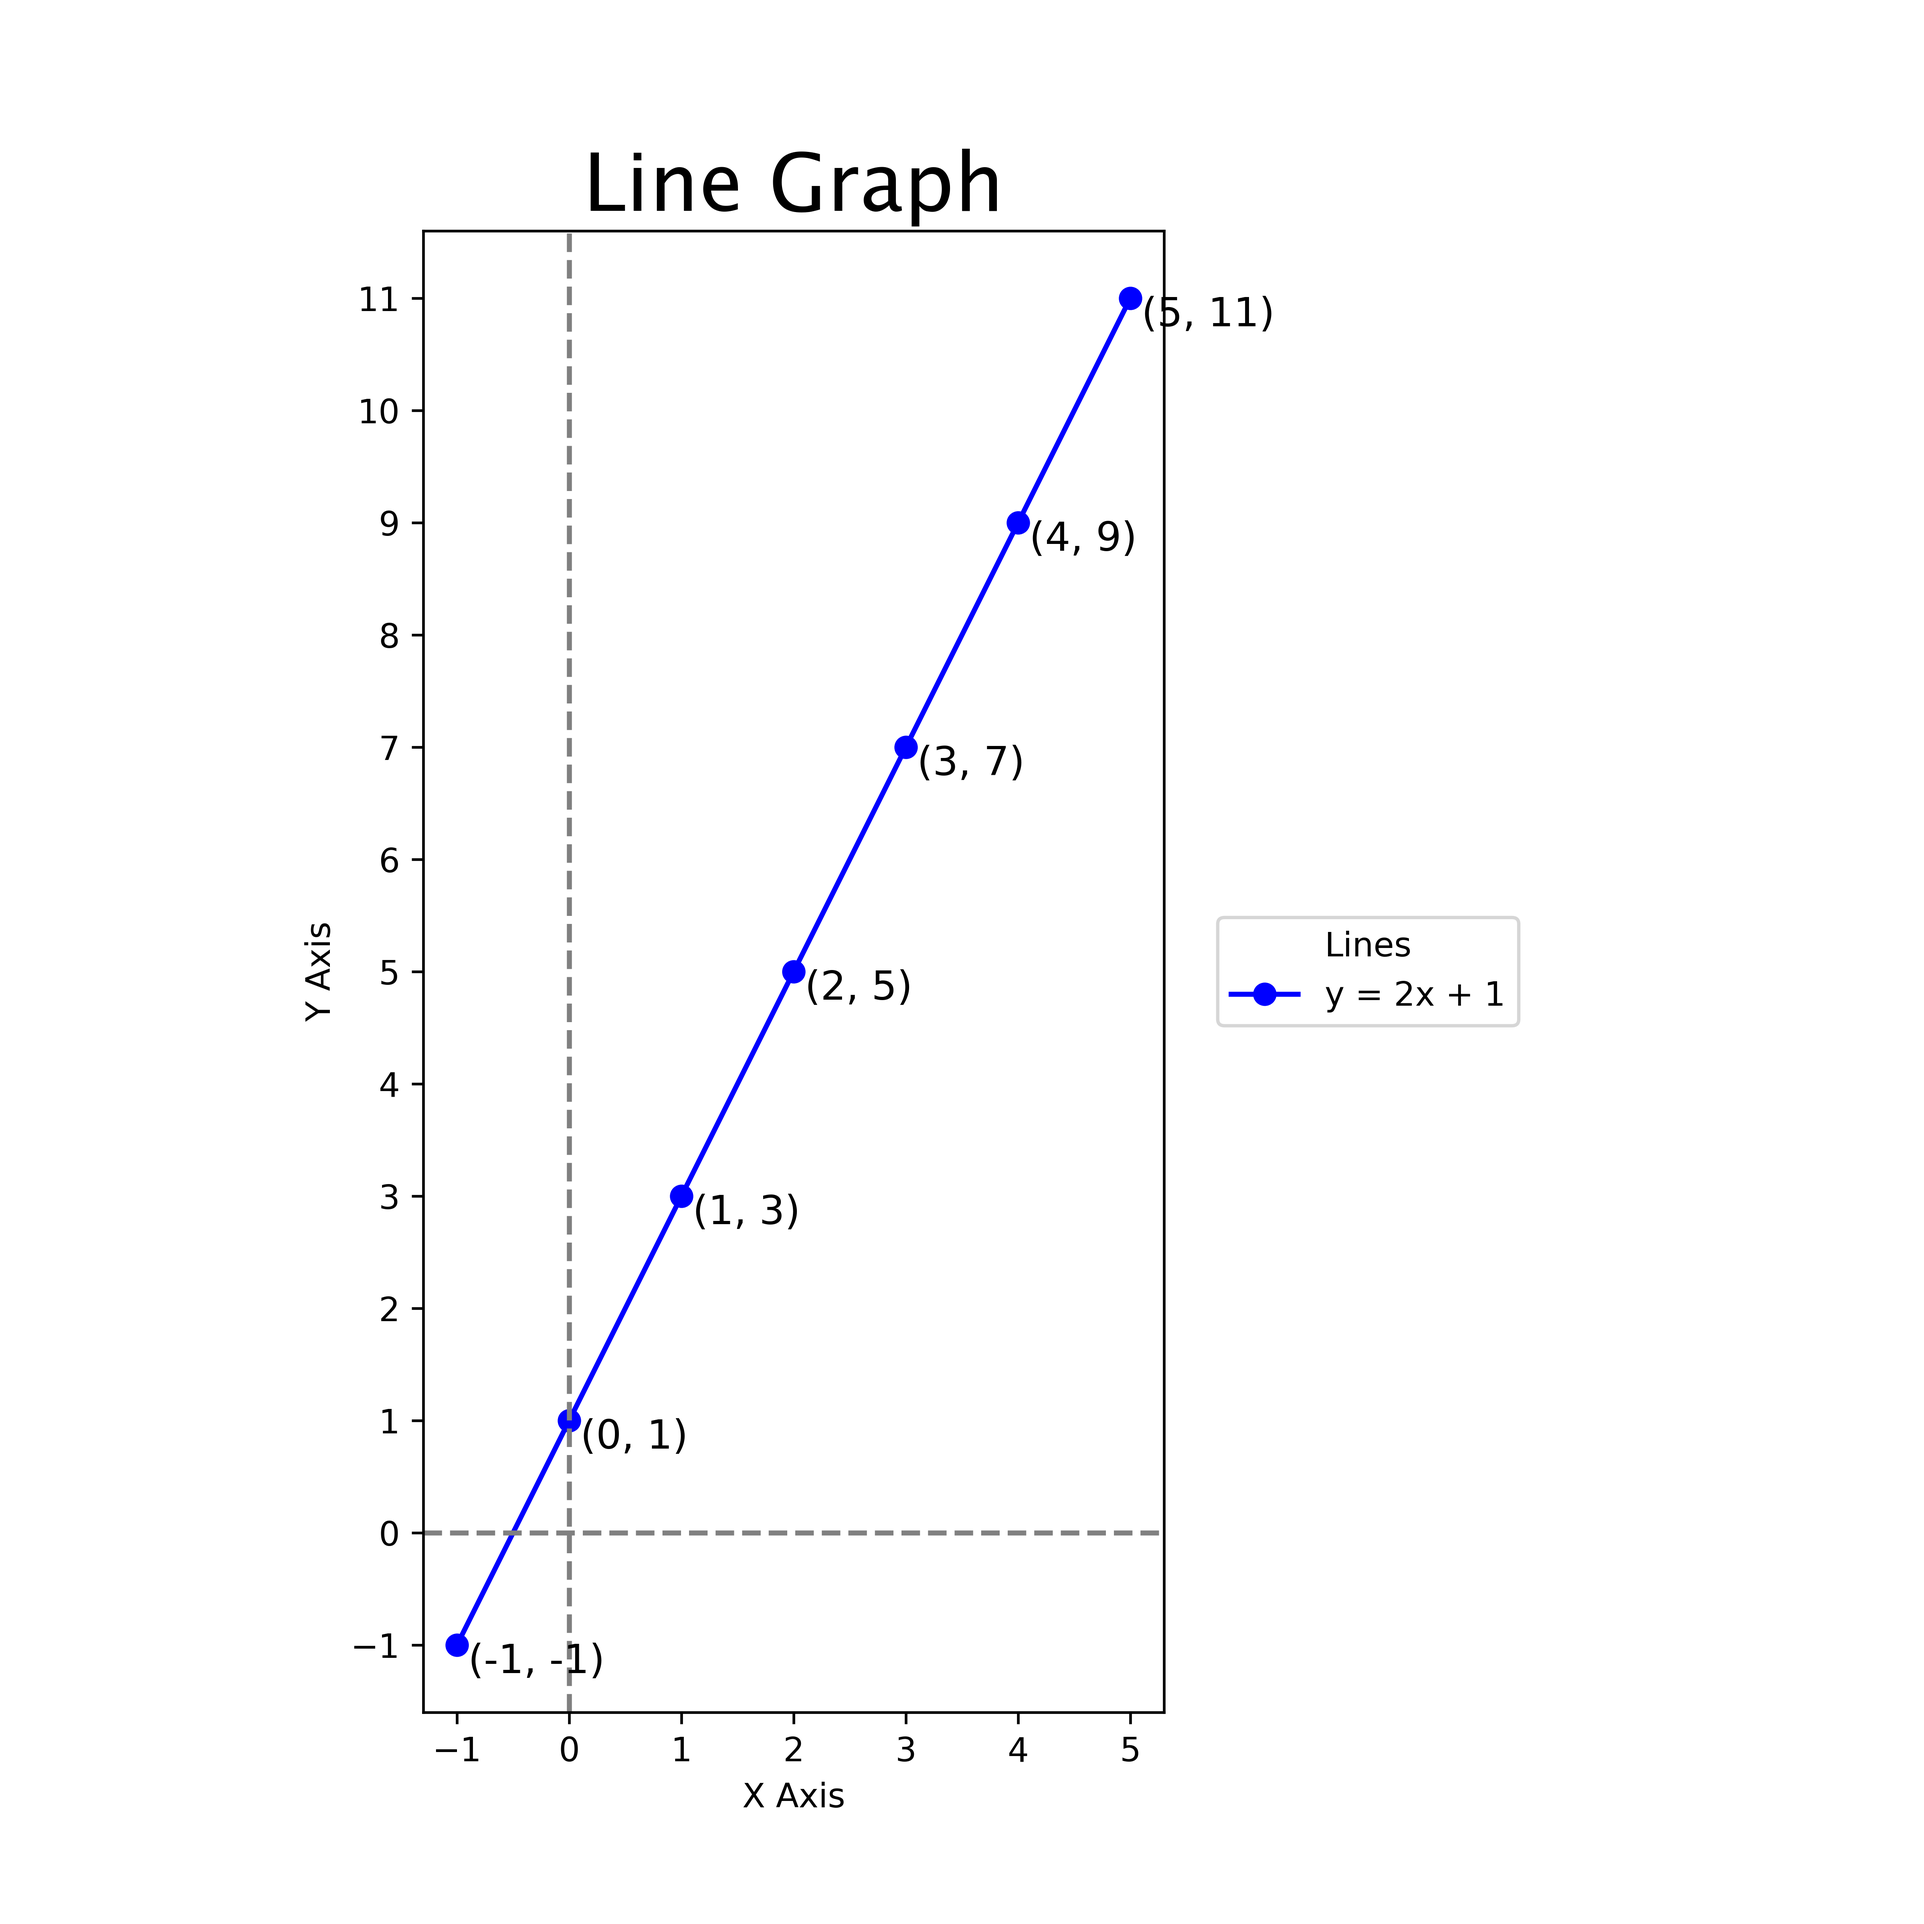
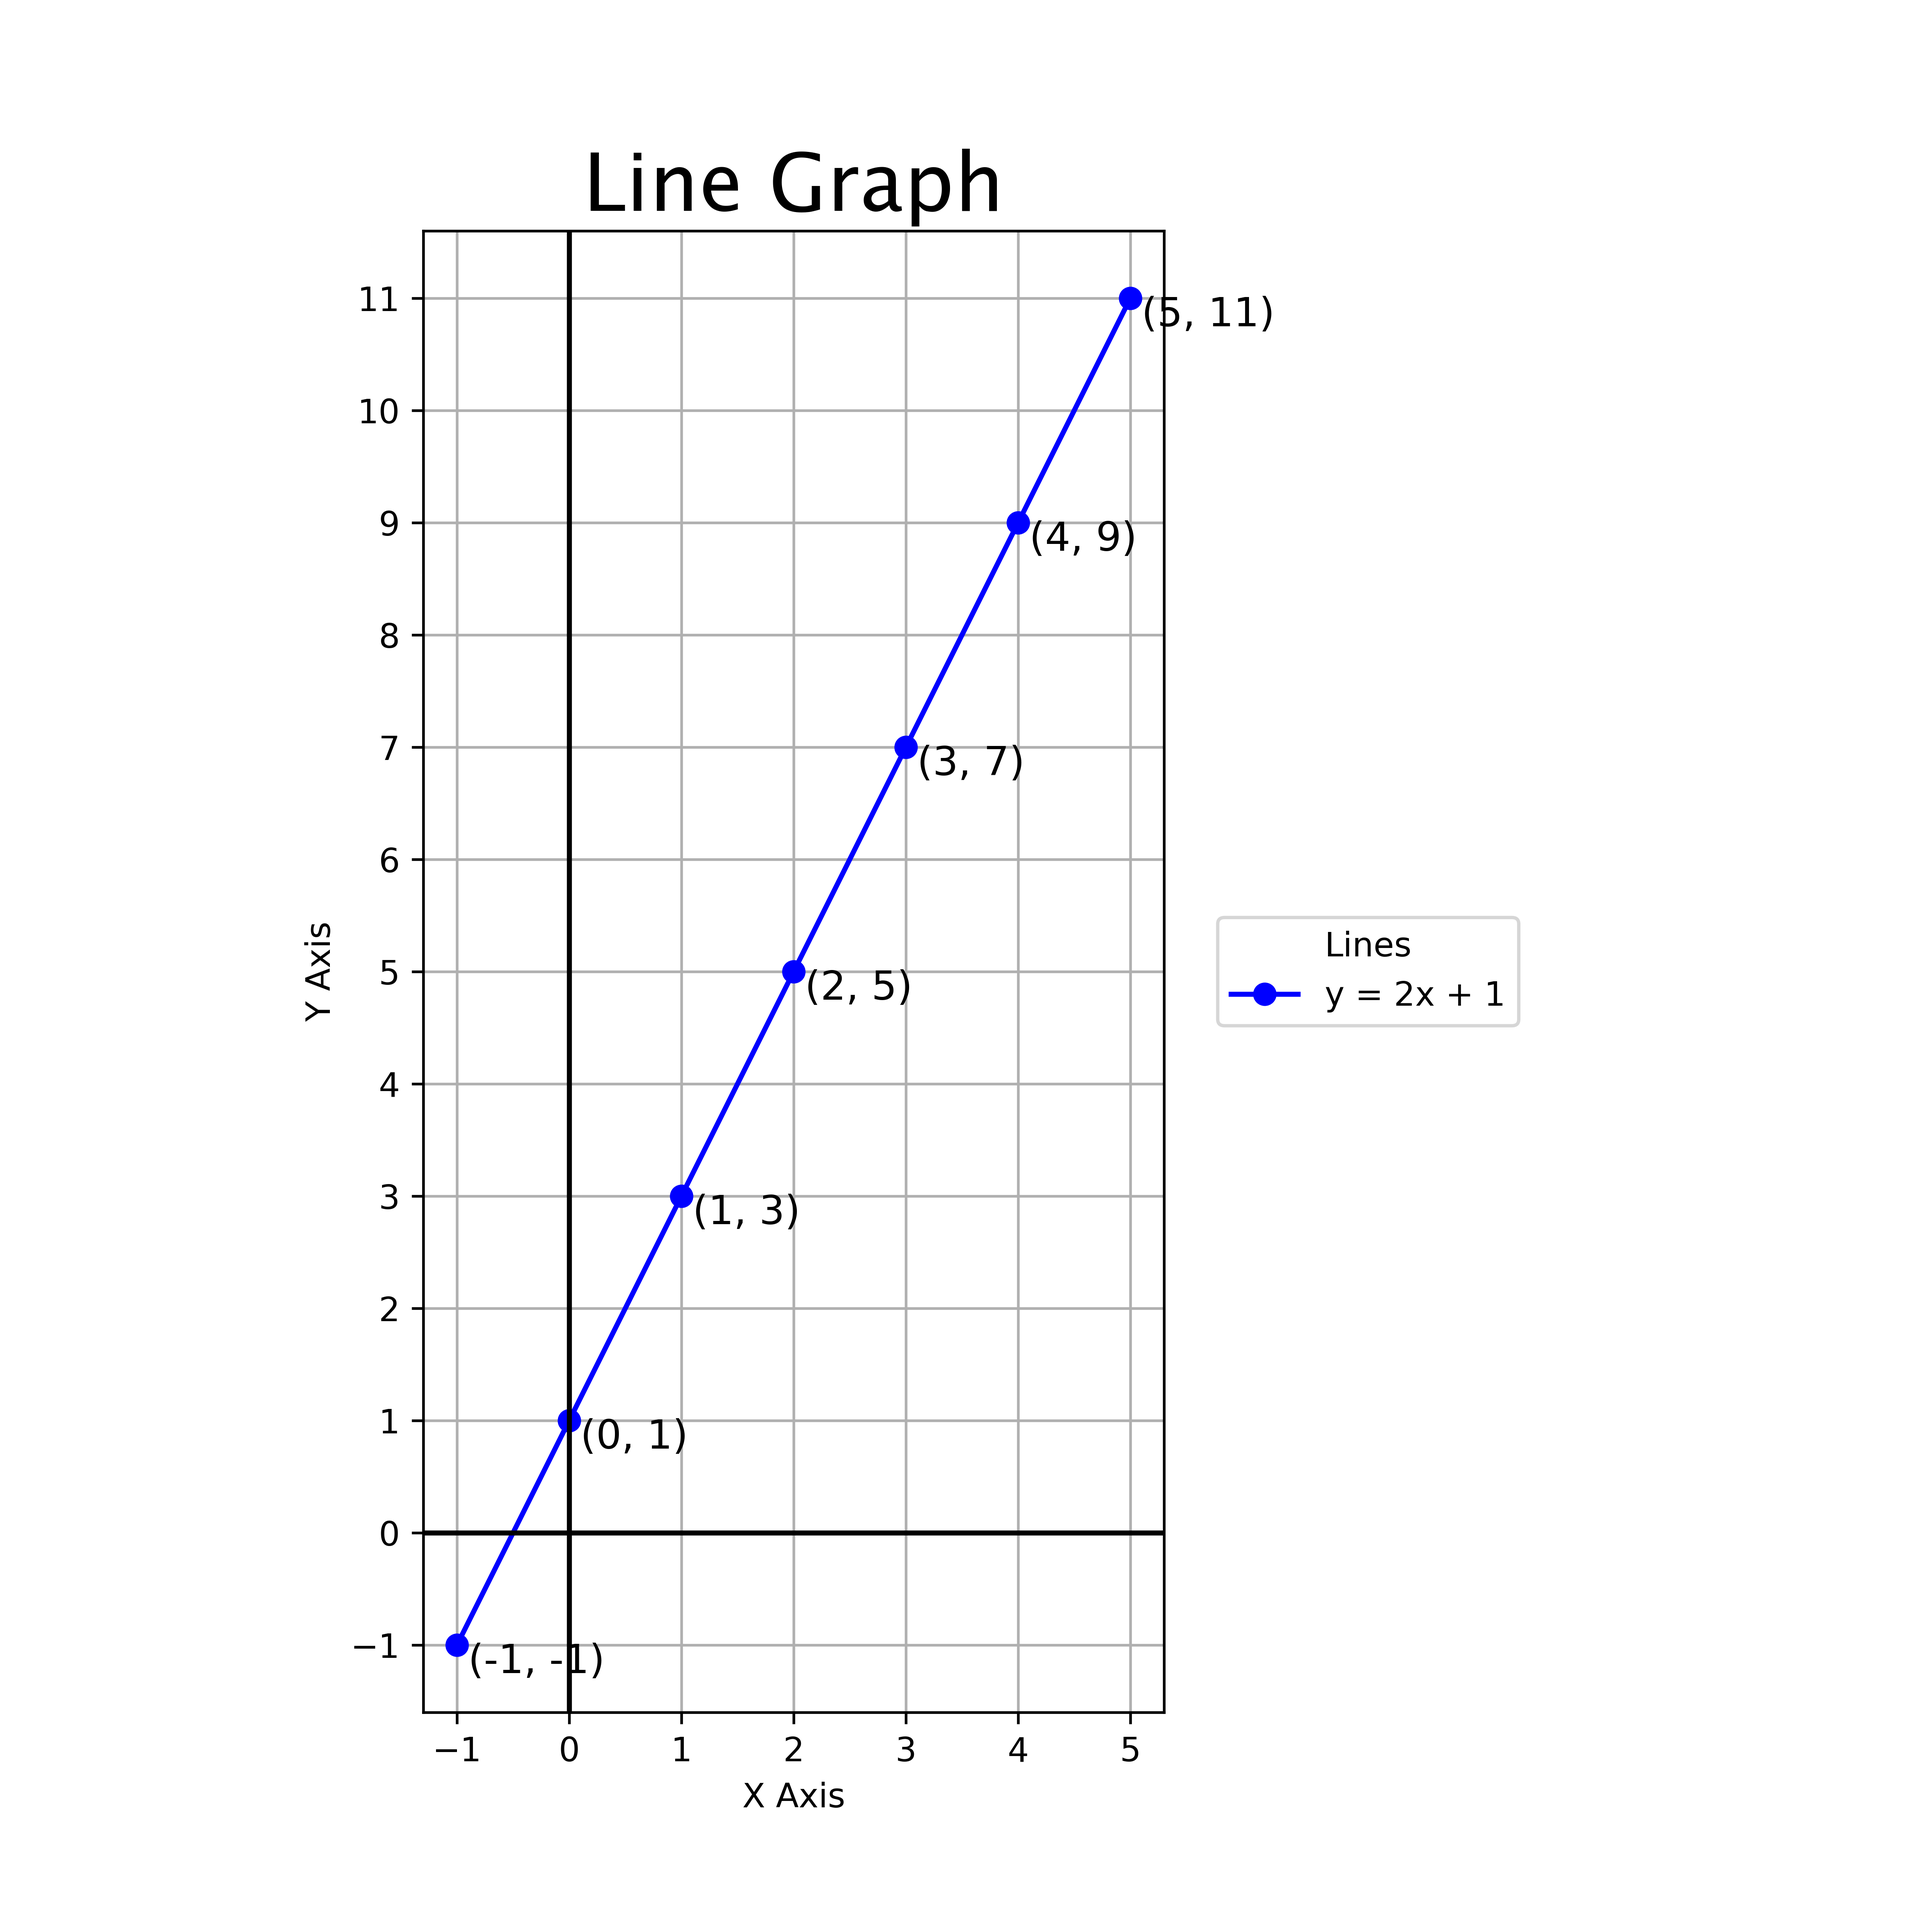
up

diff --git a/docs/matplotlib/files/line_graph.py b/docs/matplotlib/files/line_graph.py
@@ -15,8 +15,10 @@ def plot_line_graph(title, equation, label):
     # Plot the line graph
     ax.plot(x, y, "bo-", label=label)
     # Add a x, y axis lines through the origin
-    ax.axhline(0, color="gray", linestyle="--")
-    ax.axvline(0, color="gray", linestyle="--")
+    ax.axhline(0, color="k", linestyle="-")
+    ax.axvline(0, color="k", linestyle="-")
+    # add a grid
+    ax.grid(True)
     # Add a title (specify font parameters with fontdict)
     ax.set_title(title, fontdict={"fontname": "Lucida Sans", "fontsize": 24})
     # X and Y labels

diff --git a/docs/matplotlib/matplotlib_line_graph.rst b/docs/matplotlib/matplotlib_line_graph.rst
@@ -50,14 +50,12 @@ import matplotlib.pyplot as plt
 
 This line imports the `pyplot` module from the `matplotlib` library and gives it the alias `plt`. The `pyplot` module provides a collection of functions for creating static, animated, and interactive visualizations.
 
-```python
-def plot_line_graph(title, equation, label):
+```def plot_line_graph(title, equation, label):
 ```
 
 This line defines a new function named `plot_line_graph` that takes three arguments: `title`, `equation`, and `label`. The function is used to create a line graph of the specified equation with the specified title and label.
 
-```python
-    x = np.arange(-1, 6)
+```x = np.arange(-1, 6)
 ```
 
 This line creates a new variable named `x` and assigns it the value returned by calling the `arange` function from the `numpy` module. The `arange` function is called with two arguments, `-1` and `6`, which specify the start and stop values for the range of values to generate. The function returns an array of values from `-1` to `5` with a step size of `1`.
@@ -87,16 +85,22 @@ This line calls the `subplots_adjust` method of the figure object stored in the 
 This line calls the `plot` function from the `pyplot` module to plot a line graph of the data stored in variables named `x` and `y`. The function is called with four arguments: two arrays of data to plot, a format string that specifies how to format the data points, and a keyword argument named `label` that specifies the label for this data series in the legend.
 
 ```python
-    plt.axhline(0, color="gray", linestyle="--")
+    ax.axhline(0, color="k", linestyle="-")
 ```
-
+   
 This line calls the `axhline` function from the `pyplot` module to add a horizontal line at y=0 to the current axes. The function is called with three keyword arguments: a y-value at which to draw the horizontal line, a color for the line, and a linestyle for the line.
 
 ```python
-    plt.axvline(0, color="gray", linestyle="--")
+    ax.axvline(0, color="k", linestyle="-")
 ```
 
 This line calls the `axvline` function from the `pyplot` module to add a vertical line at x=0 to the current axes. The function is called with three keyword arguments: an x-value at which to draw the vertical line, a color for the line, and a linestyle for the line.
+
+```python
+    ax.grid(True)
+```
+
+In this example, we call the grid method of the Axes object stored in variable named ax and pass it one argument, True, which specifies that a grid should be displayed. You can add this line of code after creating the Axes object and before calling the show method of the pyplot module to display the plot with a grid.
 
 ```python
     plt.title(title, fontdict={"fontname": "Lucida Sans", "fontsize": 24})
